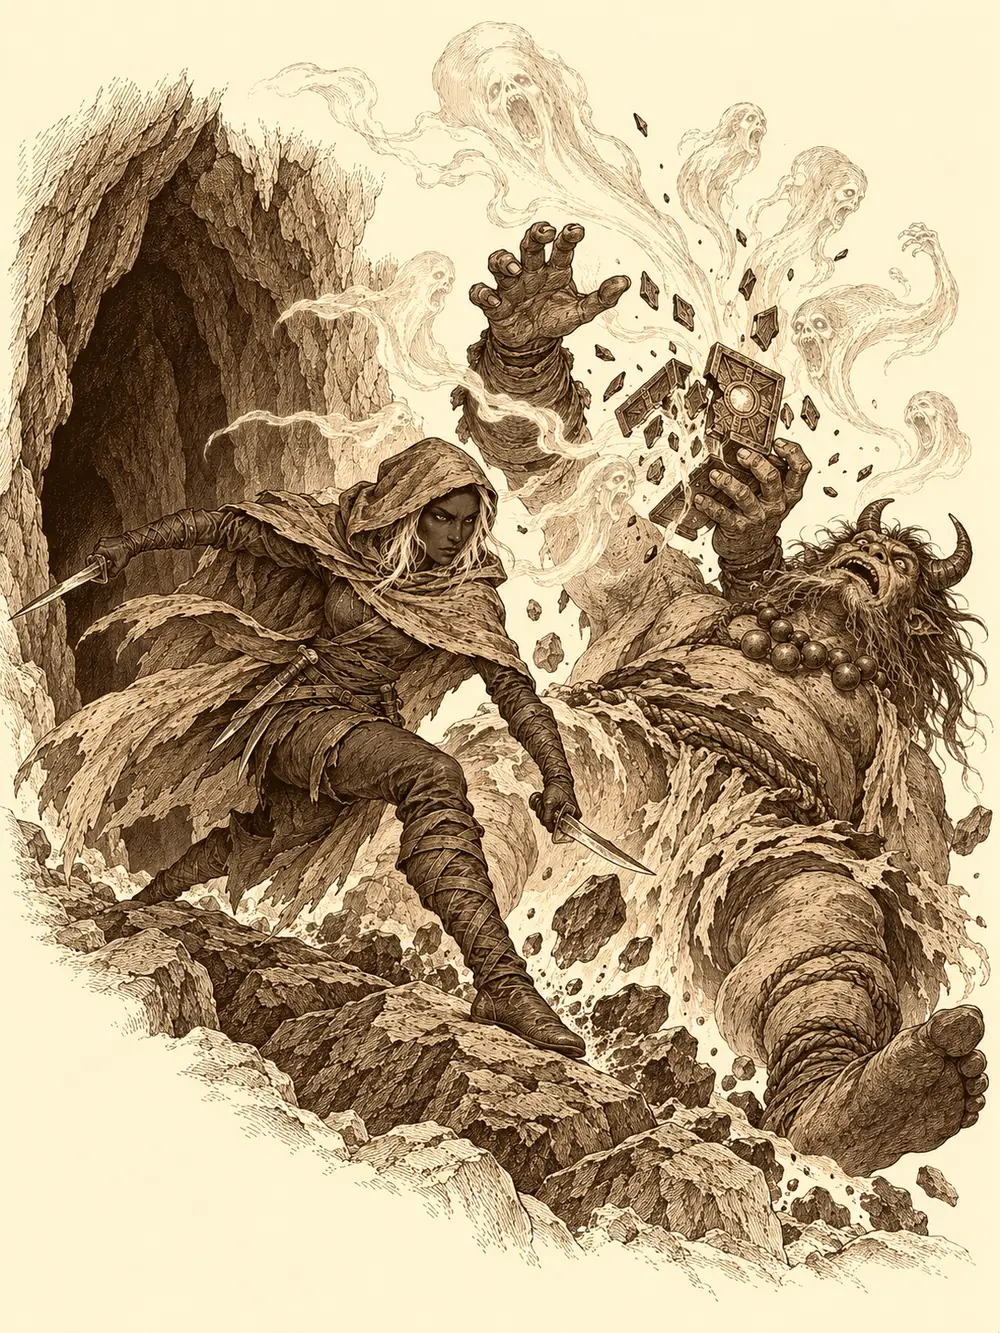
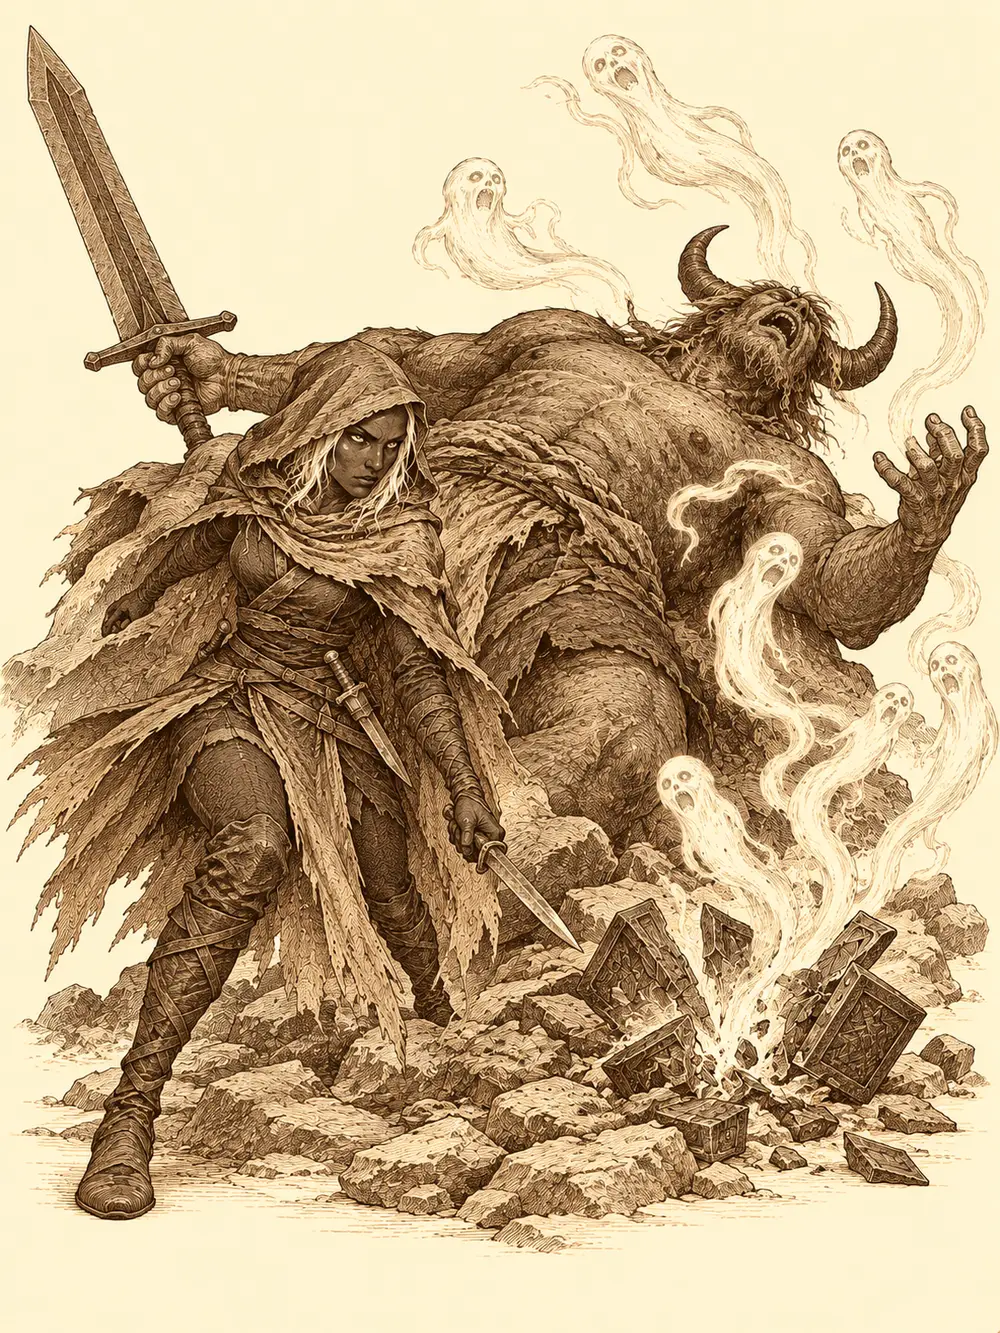
feat: stronger Kuroto plates for 45, 74, 81, 82, 86, 88 (final redo round)
Crek now owl-faced like Erk; all 181 chapters illustrated and verified.

Claude-Session: https://claude.ai/code/session_015drHjnJFACoiJ73CEVn1UU

diff --git a/novela/kuroto/074.html b/novela/kuroto/074.html
@@ -132,7 +132,7 @@
 <p>Luego el viento les trajo metal contra metal. Delante, casi invisibles tras la cortina de agua, unos aarakocra que no estaban infectados luchaban por su vida. Ermitaño murmuró unas palabras de aliento y una calidez les recorrió el cuerpo; Infinito soltó una arenga tan florida que al menos les arrancó una sonrisa. Después avanzaron en silencio, y hasta el clérigo, con su armadura pesada, consiguió no hacer ruido.</p>
 <p>Una criatura de alas negras enormes y nariz larga, armada con dos katanas, despedazaba a los defensores y dirigía a otra figura, un pájaro oscuro y retorcido que había sido de los suyos. Era un tengu, y no los había visto llegar.</p>
 <p>Hayate cargó una flecha con el trueno y disparó primero. Erk soltó otra que atravesó a los dos enemigos en línea. Infinito tendió la mano hacia Ermitaño y el clérigo creció hasta casi doblar su tamaño; desde esa altura alzó el brazo y una lanza de luz cayó sobre el enemigo con un estampido que iluminó la ladera.</p>
-<figure class="novela-plate" data-novela-plate><img src="../../assets/novela/lamina-074.webp" alt="Ilustración: Crek abraza a Erk bajo la lluvia, con las manzanas caídas a sus pies." width="1200" height="1600" loading="lazy"><figcaption>Soy tu madre</figcaption></figure>
+<figure class="novela-plate" data-novela-plate><img src="../../assets/novela/lamina-074.webp" alt="Ilustración: Crek y Erk, ambas con rostro y plumas de lechuza, se abrazan bajo la lluvia junto a la cesta caída y las manzanas." width="1200" height="1600" loading="lazy"><figcaption>Crek se acercó con las alas abiertas</figcaption></figure>
 <p>El aarakocra infectado se envolvió en un remolino de viento y voló hacia Infinito. Al llegar batió las alas contra el suelo y levantó una nube de arenilla. Los demás se taparon los ojos a tiempo; el bardo no. Ciego, se volvió invisible y se retiró hasta el borde del acantilado. El tengu respondió golpeando a un defensor con una katana y luego con la otra, cada corte con un chasquido eléctrico, y se lanzó contra Erk para descargarle otro tajo. Cuatro golpes en el tiempo en que un hombre da dos pasos.</p>
 <div class="novela-scene-break" role="separator" aria-label="Cambio de escena"><span aria-hidden="true">✦</span></div>
 <p>La pelea se alargó. Erk guardó el arco y sacó sus dos espadas cortas, que no eran sus armas favoritas, y aun así le abrió al tengu una herida profunda. Hayate probó con el relámpago y vio a la criatura esquivar a medias la descarga y absorber el resto, como si la electricidad fuera de su misma sangre. Intentó inmovilizarlo con una plegaria pensada para enemigos humanos y el tengu ni la sintió. Una de las piedras de tormenta le arrancó apenas un gruñido.</p>

diff --git a/novela/kuroto/082.html b/novela/kuroto/082.html
@@ -148,7 +148,7 @@
 <p>El drow los guió por las montañas con la capucha calada, acercándose mucho a los cruces para mirarlos, porque no veía lejos con aquella luz. Los caminos eran tan estrechos que había que pasarlos de lado, pegados a la roca, y algún puente colgante crujía de mala manera bajo sus pies. Al fin, entre dos cordilleras más altas que nada que hubieran visto, apareció a lo lejos la puerta.</p>
 <p>Era enorme y completamente negra. No brillaba en absoluto; parecía tragarse la luz. A un lado tenía esculpida la cabeza de un buey gigantesco y al otro la de un toro. Incluso desde aquella distancia, Cael y Palayer sintieron la maldad que salía de ella, y de las tierras que había detrás, como un viento frío contra la piel.</p>
 <p>Antes de llegar oyeron el choque de las espadas.</p>
-<figure class="novela-plate" data-novela-plate><img src="../../assets/novela/lamina-082.webp" alt="Ilustración: Tekel enrolla un mapa en la tienda del mando mientras lo guarda en su mochila." width="1200" height="1600" loading="lazy"><figcaption>Cogió uno de los planos, lo enrolló</figcaption></figure>
+<figure class="novela-plate" data-novela-plate><img src="../../assets/novela/lamina-082.webp" alt="Ilustración: Aka dispara desde una roca mientras una flecha se divide hacia dos sectarios y la criatura alada cruza el campo con dos katanas." width="1200" height="1600" loading="lazy"><figcaption>alguna que se partía en el aire</figcaption></figure>
 <p>Al doblar una formación de rocas vieron la batalla. Unos hombres con túnicas y máscaras con un símbolo de pinchos, que Aka reconoció como el de Otakemaru, luchaban contra un puñado de samuráis. Entre ellos se movía una criatura roja de alas negras y nariz larguísima, con una katana enorme en cada mano, y lo hacía tan deprisa que la veían en un extremo del campo y un instante después en el otro. Ante sus ojos partió a dos samuráis por la mitad de un solo tajo. Más allá, malherido, con sus dos espadas aún en las manos, estaba el general.</p>
 <p>&quot;Hay que darse prisa&quot;.</p>
 <p>Uno de los sectarios los vio llegar y lanzó un rayo desde la punta de los dedos que alcanzó a Palayer. Cael echó a correr hacia ellos, y a su espalda brotaron unas alas esqueléticas, medio translúcidas, de un morado enfermizo. Sus ojos se volvieron negros por completo, sin iris. Los sectarios que lo vieron de frente sintieron un terror que los hizo huir gritando. La criatura roja, en cambio, le sonrió. El miedo no le afectaba. Se le acercó hasta casi tocarle la cara con aquella nariz y le descargó tres tajos, y cada uno le pasó al anciano un chispazo eléctrico por la armadura.</p>

diff --git a/novela/kuroto/045.html b/novela/kuroto/045.html
@@ -133,7 +133,7 @@
 <p>&quot;Entraste en la biblioteca y te llevaste el papel. Pensé que, como mujer, me entenderías&quot;.</p>
 <p>El enano no esperó a que terminaran. Se transformó en un inugami, un hombre perro de hocico largo, olfateó el aire y captó un olor que no conocía, muy lejano. Echó a correr a cuatro patas. Los demás lo siguieron. Higeki, que iba leyendo su libro de tragedias sin mirar dónde pisaba, tropezó con un cuerpo y se dio de bruces contra el suelo. Danifae le tendió la mano con una sonrisa que no le gustó a nadie.</p>
 <p>Las afueras estaban igual que la ciudad: un rastro de cuerpos inconscientes, como migas de pan, que se adentraba en el monte. Tardaron casi una hora en recorrerlo entre árboles y piedras. Al final había una gruta, y delante de ella, malherido junto a un árbol a medio talar, un medio orco al que conocían. Era Gur, el joven que siempre andaba buscando a alguien más fuerte con quien pelear.</p>
-<figure class="novela-plate" data-novela-plate><img src="../../assets/novela/lamina-045.webp" alt="Ilustración: Danifae golpea a un gigante cornudo mientras la caja se rompe y los espectros salen volando." width="1200" height="1600" loading="lazy"><figcaption>De ella salieron volando espectros en todas direcciones</figcaption></figure>
+<figure class="novela-plate" data-novela-plate><img src="../../assets/novela/lamina-045.webp" alt="Ilustración: Danifae, con una daga, ante el gigante cornudo caído mientras los espectros salen de la caja rota." width="1200" height="1600" loading="lazy"><figcaption>De ella salieron volando espectros en todas direcciones</figcaption></figure>
 <p>&quot;Esa criatura&quot;, jadeó. &quot;No he podido con ella. Soy un débil&quot;. Era enorme, contó, muy fuerte, y llevaba algo oscuro en la mano, un cubo o una esfera, no lo había visto bien. Le había pedido pelea y lo había vencido.</p>
 <p>Le metieron una poción en la boca. Kasumi le cerró las heridas con sus manos y uno de los músicos le recitó un relato sobre un ángel que pareció devolverle algo de aliento. Los huesos del medio orco se fueron soldando hasta que pudo tenerse en pie.</p>
 <p>Entonces el suelo tembló. Por encima de las piedras de la gruta apareció de un salto una criatura alta como tres hombres, con cuernos, una espada enorme en una mano y en la otra una caja que palpitaba. No dijo nada. Se rio.</p>

diff --git a/novela/kuroto/081.html b/novela/kuroto/081.html
@@ -154,7 +154,7 @@
 <p>Shigeru se levantó y se abrazaron. Fue un abrazo de los que se dan los hombres de pueblo, con palmadas en la espalda que suenan como golpes de tambor.</p>
 <p>&quot;¡Te estás poniendo fuerte!&quot;.</p>
 <p>&quot;La experiencia con los cazadores me ha hecho más fuerte, padre&quot;.</p>
-<figure class="novela-plate" data-novela-plate><img src="../../assets/novela/lamina-081.webp" alt="Ilustración: Jin entrega a Blaze un recetario gastado y unas monedas entre las pertenencias recogidas de Sirth." width="1200" height="1600" loading="lazy"><figcaption>Era un recetario viejo, con las esquinas dobladas</figcaption></figure>
+<figure class="novela-plate" data-novela-plate><img src="../../assets/novela/lamina-081.webp" alt="Ilustración: Aka, atrapada por la lengua del Ogama, dispara una flecha bajo su mandíbula mientras la rana cede." width="1200" height="1600" loading="lazy"><figcaption>tensó el arco una última vez</figcaption></figure>
 <p>Musashi se sentó, escuchó lo del tributo y se rio, porque hacía cuatro días su hijo meaba detrás de la casa y ahora trabajaba para el shogun. Entonces Shigeru le dijo lo que el shogun le había contado. Que había sido guardia del anterior shogun.</p>
 <p>El padre se quedó muy quieto. Miró a Ayame, miró a sus hijos.</p>
 <p>&quot;Es verdad. Estuve en el ejército hace muchos años, cuando era joven como tú. Fueron tiempos difíciles. Hubo un ataque de los yokai del sur y el shogun reclamó a todos los jóvenes que valieran algo. Yo quería tener un nombre, demostrar lo que valía. Lo que vimos allí...&quot;. Se calló un momento. &quot;Fue muy duro. Por eso no te conté nada. No quería que mis experiencias te asustaran y no quisieras salir a ver mundo. Eso es lo que te hace fuerte&quot;.</p>

diff --git a/novela/kuroto/086.html b/novela/kuroto/086.html
@@ -145,7 +145,7 @@
 <p>&quot;Tantos años, Scar&quot;, contestó Simba, &quot;y todavía no has escarmentado&quot;.</p>
 <p>No quiso perder el tiempo en palabras. Subió de un salto por un atajo de la roca y, al ver que Ermitaño empezaba a trepar detrás, se volvió.</p>
 <p>&quot;Esta batalla debo librarla yo. Mantente al margen&quot;.</p>
-<figure class="novela-plate" data-novela-plate><img src="../../assets/novela/lamina-086.webp" alt="Ilustración: Blaze cocina un huevo en una sartén sobre un pequeño fuego." width="1200" height="1600" loading="lazy"><figcaption>freír un huevo sin quemarlo</figcaption></figure>
+<figure class="novela-plate" data-novela-plate><img src="../../assets/novela/lamina-086.webp" alt="Ilustración: Simba lanza a Scar de cabeza desde el risco hacia las llamas que lo engullen." width="1200" height="1600" loading="lazy"><figcaption>Las llamas se lo tragaron</figcaption></figure>
 <p>Desde arriba señaló al norte. Una avalancha de hienas cruzaba la llanura en dirección al risco.</p>
 <p>&quot;Él no luchará limpio. Contened a esas&quot;.</p>
 <p>Blaze levantó un muro de fuego que cerraba casi todo el frente. Ermitaño se plantó en el hueco que quedaba, rodeado de espíritus guardianes que quemaban todo lo que entraba en su círculo, y envió su arma espiritual flotando hacia lo alto para cubrir la espalda del león. Las hienas eran más listas de lo que parecían: aprovecharon un desnivel y saltaron las llamas. El drow las recibió con su estoque y unos filos de pensamiento que les partían la mente, y en dos golpes había dos menos. Shiru estrelló el rodillo contra otra y la empujó de lleno contra el muro de fuego, de donde salió hecha un tizón.</p>

diff --git a/novela/kuroto/088.html b/novela/kuroto/088.html
@@ -142,7 +142,7 @@
 <p>&quot;Buenas, Carl&quot;.</p>
 <p>&quot;Hola, Timmy&quot;.</p>
 <p>Timmy le sirvió sake en un vaso sucio y brindó con él. Carl le contó que ahora ayudaba a un sacerdote y, en la jerga que solo entienden los del oficio, le explicó lo que buscaba: alguien había hecho un trabajo en el barrio pobre y había dejado la marca de cumplido. Puso una moneda de oro sobre la barra. El gnomo la arrastró hacia sí con un dedo, luego otra, y le dijo que el contacto que conocía era él mismo.</p>
-<figure class="novela-plate" data-novela-plate><img src="../../assets/novela/lamina-088.webp" alt="Ilustración: Hino Yama examina las marcas recién talladas en una pared de madera." width="1200" height="1600" loading="lazy"><figcaption>Hino Yama encontró una marca tallada a punta de daga</figcaption></figure>
+<figure class="novela-plate" data-novela-plate><img src="../../assets/novela/lamina-088.webp" alt="Ilustración: Hino Yama lanza una bola de fuego en el callejón y revela a varios shinobi entre humo y sombras." width="1200" height="1600" loading="lazy"><figcaption>Hino Yama abrió la noche con una bola de fuego</figcaption></figure>
 <p>Había llegado gente nueva, le contó. El viejo gremio de ladrones de la ciudad nunca había sido gran cosa, y el shogunato lo tenía bastante controlado. Pero unos recién llegados lo habían barrido y se habían instalado en su lugar. Venían de otras islas. Llevaban por símbolo una daga negra.</p>
 <p>Carl sintió que algo se le tensaba por dentro y lo contuvo.</p>
 <p>&quot;¿Y dónde se los encuentra?&quot;.</p>

diff --git a/tasks/todo.md b/tasks/todo.md
@@ -20,7 +20,7 @@ Plan: Fable blueprint (2026-10-22), authorized by Claude with changes noted belo
 
 | D13 | Owner 2026-10-27: "Leer novela" CTA on the Kuroto card opens an in-site book reader for the 181-chapter novel (source kuroto-novela/). Fable plan: pre-rendered static pages (novela/kuroto/index.html TOC + NNN.html per chapter) from a dependency-free generator tools/novela-build.mjs that validates all 181 sources; progressive JS only for progress/keyboard/continue-reading. Prose in Cormorant Garamond 500 upright (new OFL woff2) at 20px (H6 token) as PROPOSED. Owner asked for a 3-chapter sneak peek first (local, no deploy) before the full run (R39-R41). Sneak peek VERIFIED locally 2026-10-27 (Chromium 320-1920: 0 console errors, no h-scroll, 1 h1, ~69 chars/line, no-JS readable, arrows/progress/continue-reading, music switch fetches 200 from nested pages). Not committed, not deployed. Owner review 2026-10-27: Cormorant Garamond REJECTED; single reading column REJECTED as "sosillo". v2 direction (owner): open book, two-page 50/50 spread with centre fold filling the container, parchment pages, page-turn motion, dark-fantasy register; body font: Alegreya 400 + italic (OFL, self-hosted), chosen by owner 2026-10-27 from a rendered specimen of 6 faces (ACCEPTED). New page material + ink colours are PROPOSED. Machinery (generator, validation, CTA, header, no-JS, keyboard, continue-reading) kept. R42 layout/pagination, R43 closed-tome cover + 3D flip (owner request), R44 portrait pages (~1:1.38), generated aged textures (paper/leather/desk) and one ink-sepia illustration plate per chapter grounded in a quoted sentence (owner request 2026-10-27; plate style prompt PROPOSED; 181 plates is a large generation batch to plan after the sneak peek). | PROPOSED v2 |
 
-| D14 | Owner 2026-10-27: plate style of tanda 1 (ink-sepia engraving, tasks/codex-r44.md C prompt, character bible tasks/art-src/biblia-personajes.md) APPROVED for all 181 chapters; produced via Codex in 18 batches (17x10 + 11), run 3 in parallel, each writing its own tanda-NN.json / biblia-tanda-NN.md, merged by Claude after review; WebP export by Claude (1000px wide, no upscale). Hayate = human with wings (owner). Plates sit on their own page; the reader splits the paragraph at the column boundary (R49). | ACCEPTED (style) / IN PROGRESS |
+| D14 | Owner 2026-10-27: plate style of tanda 1 (ink-sepia engraving, tasks/codex-r44.md C prompt, character bible tasks/art-src/biblia-personajes.md) APPROVED for all 181 chapters; produced via Codex in 18 batches (17x10 + 11), run 3 in parallel, each writing its own tanda-NN.json / biblia-tanda-NN.md, merged by Claude after review; WebP export by Claude (1000px wide, no upscale). Hayate = human with wings (owner). Plates sit on their own page; the reader splits the paragraph at the column boundary (R49). COMPLETE 2026-10-27: 181/181 chapters illustrated (batches 1-18 + redo rounds; rejected and regenerated: 93, 97-101, 18, 27, 28, 35, 45, 74, 81, 82, 86, 88; recoloured to sepia: 54, 62, 69, 80, 134, 153, 178). Verified: 181 chapter pages load with their plate, 0 console errors, 0 404s (Chromium); reader QA (WebKit + Chromium) clean. Owner acceptance of the full set pending. | VERIFIED, pending owner acceptance |
 
 ## Tasks
 - [x] T0 baseline commit, logo rename, .gitignore, .vercelignore, content verification log
